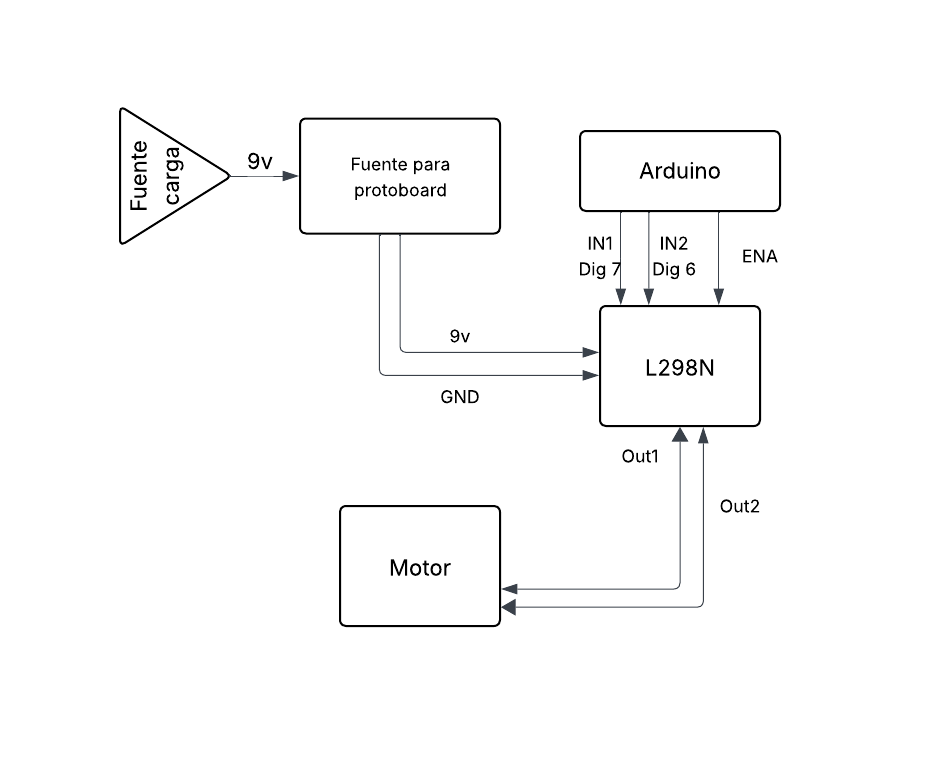
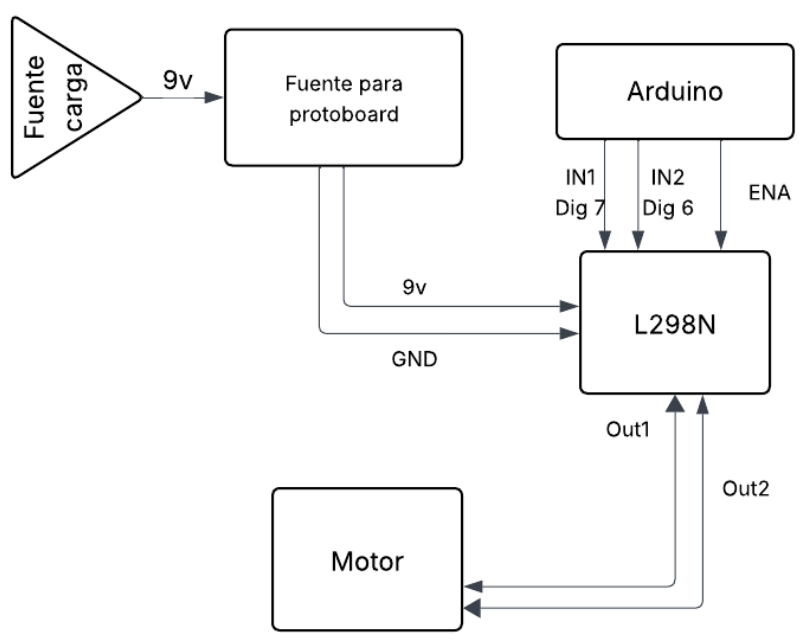
rele ejercicio

diff --git a/lab/lab2/sections/4-METODOLOGIA/METODOLOGIA.tex b/lab/lab2/sections/4-METODOLOGIA/METODOLOGIA.tex
@@ -424,23 +424,21 @@ void loop() {
 
 \section{ACTUADORES - Uso de Relé con Motor}
 
+En esta experiencia de laboratorio se explora el uso de un módulo de relé como interfaz entre un microcontrolador (Arduino UNO o MEGA) y un motor de corriente directa (DC), permitiendo su control mediante una fuente de alimentación externa. El relé cumple un rol clave en el aislamiento eléctrico entre la etapa de control (Arduino) y la etapa de potencia (fuente y motor), lo cual es fundamental cuando se trabajan con cargas superiores a las que el microcontrolador puede manejar directamente.
 
-En esta experiencia de laboratorio se explora el uso de un módulo de relé como interfaz entre un microcontrolador (Arduino) y un motor de corriente directa (DC), permitiendo su control mediante una fuente de alimentación externa. El uso del relé permite aislar eléctricamente la etapa de control (Arduino) de la etapa de potencia (motor y fuente), proporcionando una solución segura y eficiente para activar cargas mayores a las que el microcontrolador puede manejar directamente. \\
+Para llevar a cabo esta práctica, se utilizó un módulo de relé de un canal (5V) conectado a un Arduino. La lógica de activación del módulo es \textbf{activa en bajo}, es decir, cuando el pin de entrada IN1 recibe un nivel lógico \textbf{LOW}, el relé se activa, cerrando el circuito entre los terminales \textbf{COM} y \textbf{NO}.
 
-Para llevar a cabo esta práctica, se empleó un módulo de relé de un canal de 5V conectado a un Arduino UNO. La lógica de control utilizada es activa en bajo, es decir, el relé se activa cuando se aplica un nivel lógico \textbf{LOW} en su pin de entrada, cerrando el contacto entre los terminales \textbf{COM} y \textbf{NO} (normalmente abierto), y permitiendo así el paso de corriente al motor.
-
-La conexión del sistema se realizó de la siguiente manera:
+El circuito se conectó de la siguiente manera:
 
 \begin{itemize}
-    \item El pin \textbf{COM} del relé se conectó a la salida de 5V de la fuente de protoboard.
-    \item El pin \textbf{NO} se conectó a uno de los terminales del motor DC.
-    \item El otro terminal del motor se conectó a \textbf{GND}.
-    \item El módulo de relé se conectó al Arduino: \textbf{VCC} al pin 5V, \textbf{GND} a GND, e \textbf{IN1} al pin digital 7.
+    \item El terminal \textbf{COM} del relé se conectó a la salida de 5V de la fuente de protoboard.
+    \item El terminal \textbf{NO} del relé se conectó a uno de los terminales del motor DC.
+    \item El otro terminal del motor se conectó al \textbf{GND} de la fuente de protoboard.
+    \item El módulo de relé se alimentó desde el Arduino: \textbf{VCC} al pin de 5V, \textbf{GND} a tierra, e \textbf{IN1} al pin digital 7.
 \end{itemize}
 
-En la Figura \ref{fig:rele_tinkercad} se presenta la simulación del sistema en Tinkercad, permitiendo verificar su correcto funcionamiento virtualmente antes de su implementación física. La implementación real del sistema se muestra en la Figura \ref{fig:rele_implementacion} donde se observa el circuito ensamblado sobre protoboard y conectado a un Arduino MEGA.
 
-Para documentar el comportamiento lógico del sistema, se elaboró el diagrama de flujo mostrado en la Figura \ref{fig:flujo_rele} el cual representa de manera estructurada las condiciones bajo las cuales el motor es activado o desactivado dependiendo de la señal enviada desde el Arduino al relé.
+En la Figura~\ref{fig:rele_tinkercad} se muestra la simulación del sistema en Tinkercad, herramienta que permitió verificar el comportamiento del sistema antes de proceder a su montaje físico. La Figura~\ref{fig:rele_implementacion} presenta la implementación real del sistema sobre una protoboard, utilizando un Arduino MEGA y un módulo de relé conectado a un motor DC.
 
 
 \begin{figure}[H]
@@ -457,9 +455,12 @@ Para documentar el comportamiento lógico del sistema, se elaboró el diagrama d
     \label{fig:rele_implementacion}
 \end{figure}
 
+El comportamiento lógico del sistema se resume en el diagrama de flujo mostrado en la Figura~\ref{fig:flujo_rele}, donde se observa que el sistema alterna entre encender y apagar el relé (y por ende el motor) cada 5 segundos. Esta lógica fue implementada en Arduino mediante el código en C++ mostrado en el Código~\ref{code:rele_arduino}.
+
+
 \begin{figure}[H]
     \centering
-    \includegraphics[width=0.85\textwidth]{./img/flujo_rele.png}
+    \includegraphics[width=0.5\textwidth]{./img/flujo_rele.png}
     \caption{Diagrama de flujo funcionamiento relé-motor}
     \label{fig:flujo_rele}
 \end{figure}
@@ -486,12 +487,13 @@ void loop() {
 }
 \end{lstlisting}
 
+Finalmente, el sistema completo puede representarse con el diagrama de bloques de la Figura~\ref{fig:bloques_rele}, donde se muestra claramente la interacción entre el Arduino, el módulo de relé, la fuente de protoboard y el motor.
 
 \begin{figure}[H]
     \centering
-    \includegraphics[width=0.85\textwidth]{./img/bloques_rele.png}
+    \includegraphics[width=0.75\textwidth]{./img/bloques_rele.png}
     \caption{Diagrama de bloques funcionamiento relé-motor}
-    \label{fig:motor_driver}
+    \label{fig:bloques_rele}
 \end{figure}
 
 % DONE: simulacion
@@ -528,16 +530,23 @@ void loop() {
 
 \begin{figure}[H]
     \centering
-    \includegraphics[width=0.85\textwidth]{./img/ckpt_presencial_298.jpeg}
+    \includegraphics[width=0.65\textwidth]{./img/ckpt_presencial_298.jpeg}
     \caption{Implementación del L298N con Motor}
     \label{fig:l298n_implementacion}
 \end{figure}
 
 \begin{figure}[H]
     \centering
-    \includegraphics[width=0.85\textwidth]{./img/flujo_298.png}
-    \caption{Diagrama de flujo}
-    \label{fig:motor_driver}
+    \includegraphics[width=0.7\textwidth]{./img/flujo_298.png}
+    \caption{Diagrama de flujo para el L298N}
+    \label{fig:flujo}
+\end{figure}
+
+\begin{figure}[H]
+    \centering
+    \includegraphics[width=0.65\textwidth]{./img/bloques_298.png}
+    \caption{Diagrama de bloques para el L298N}
+    \label{fig:bloques_l298n}
 \end{figure}
 
 % DONE: implementacion
